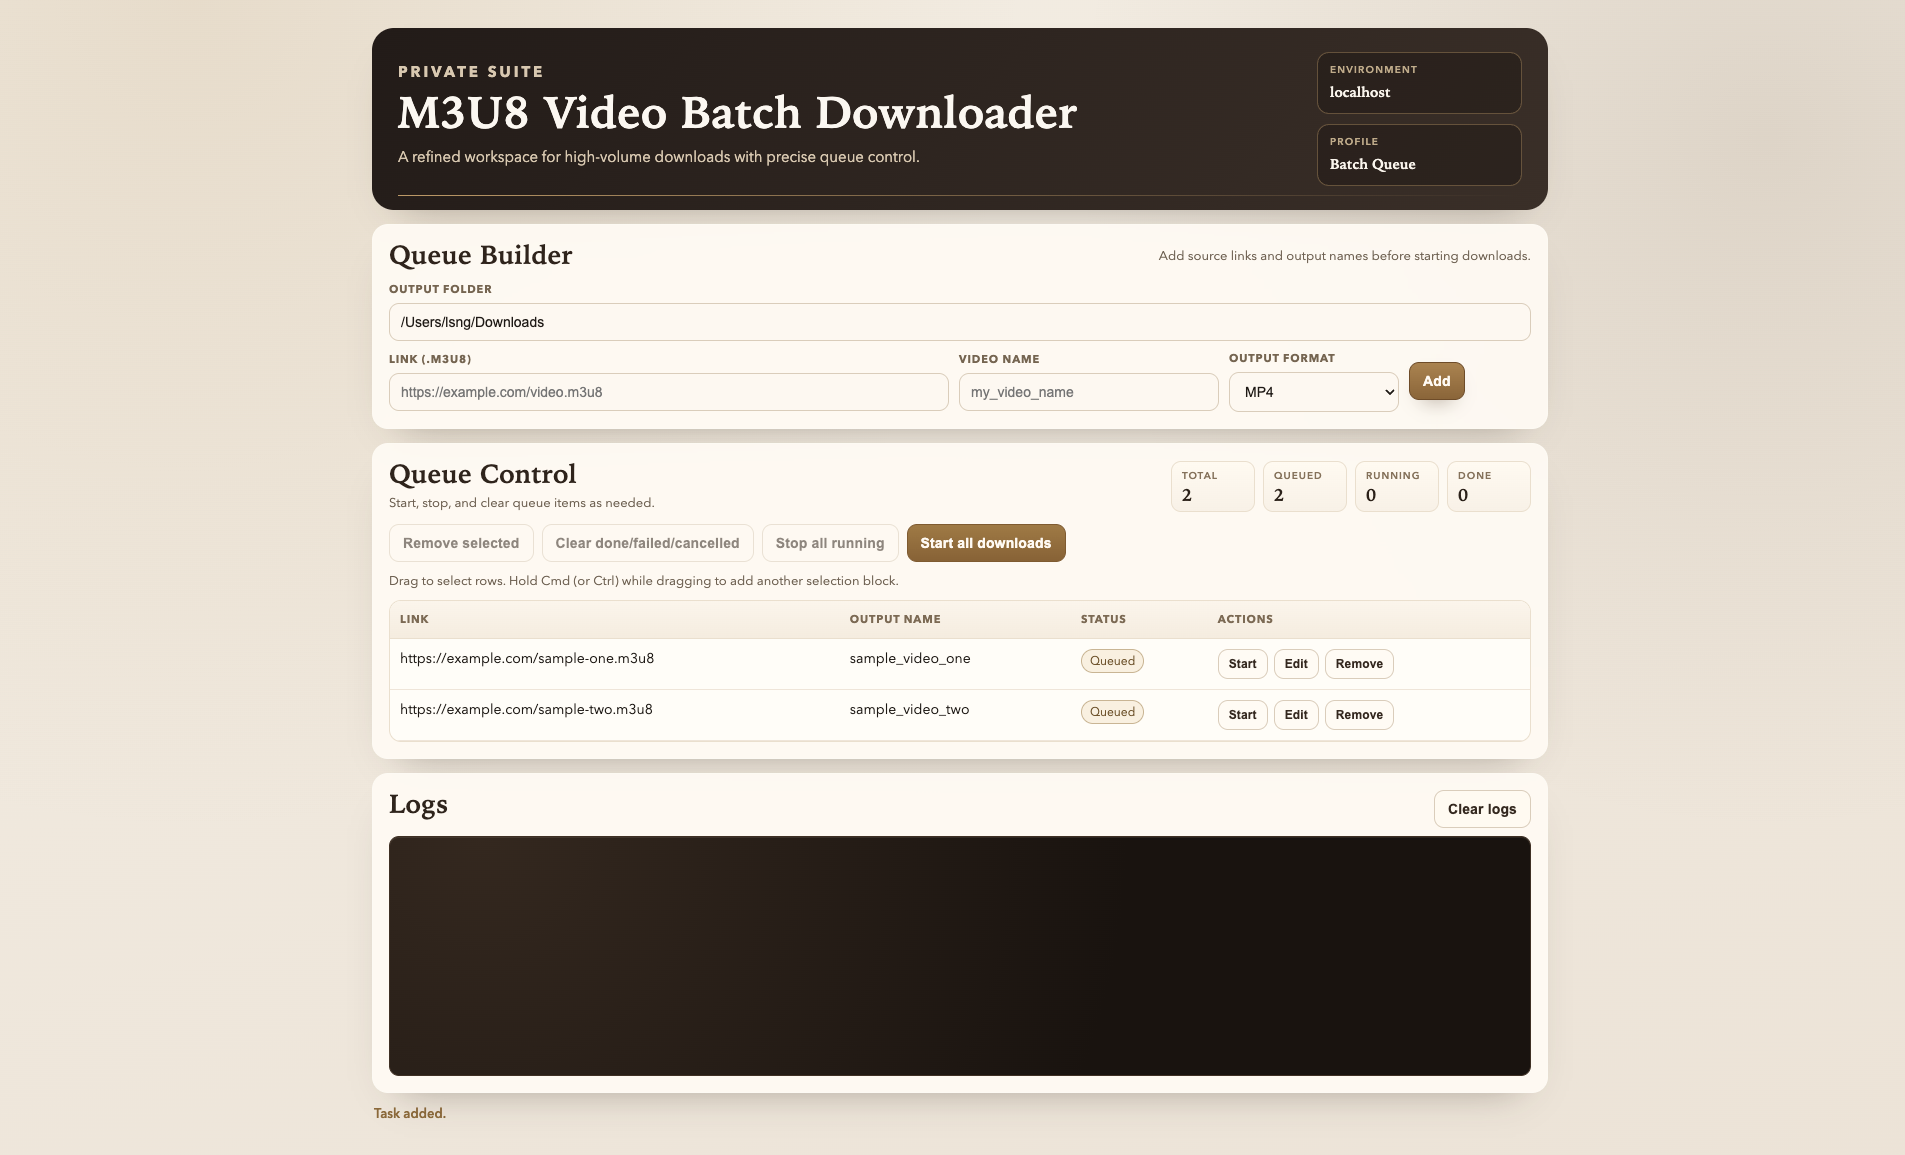
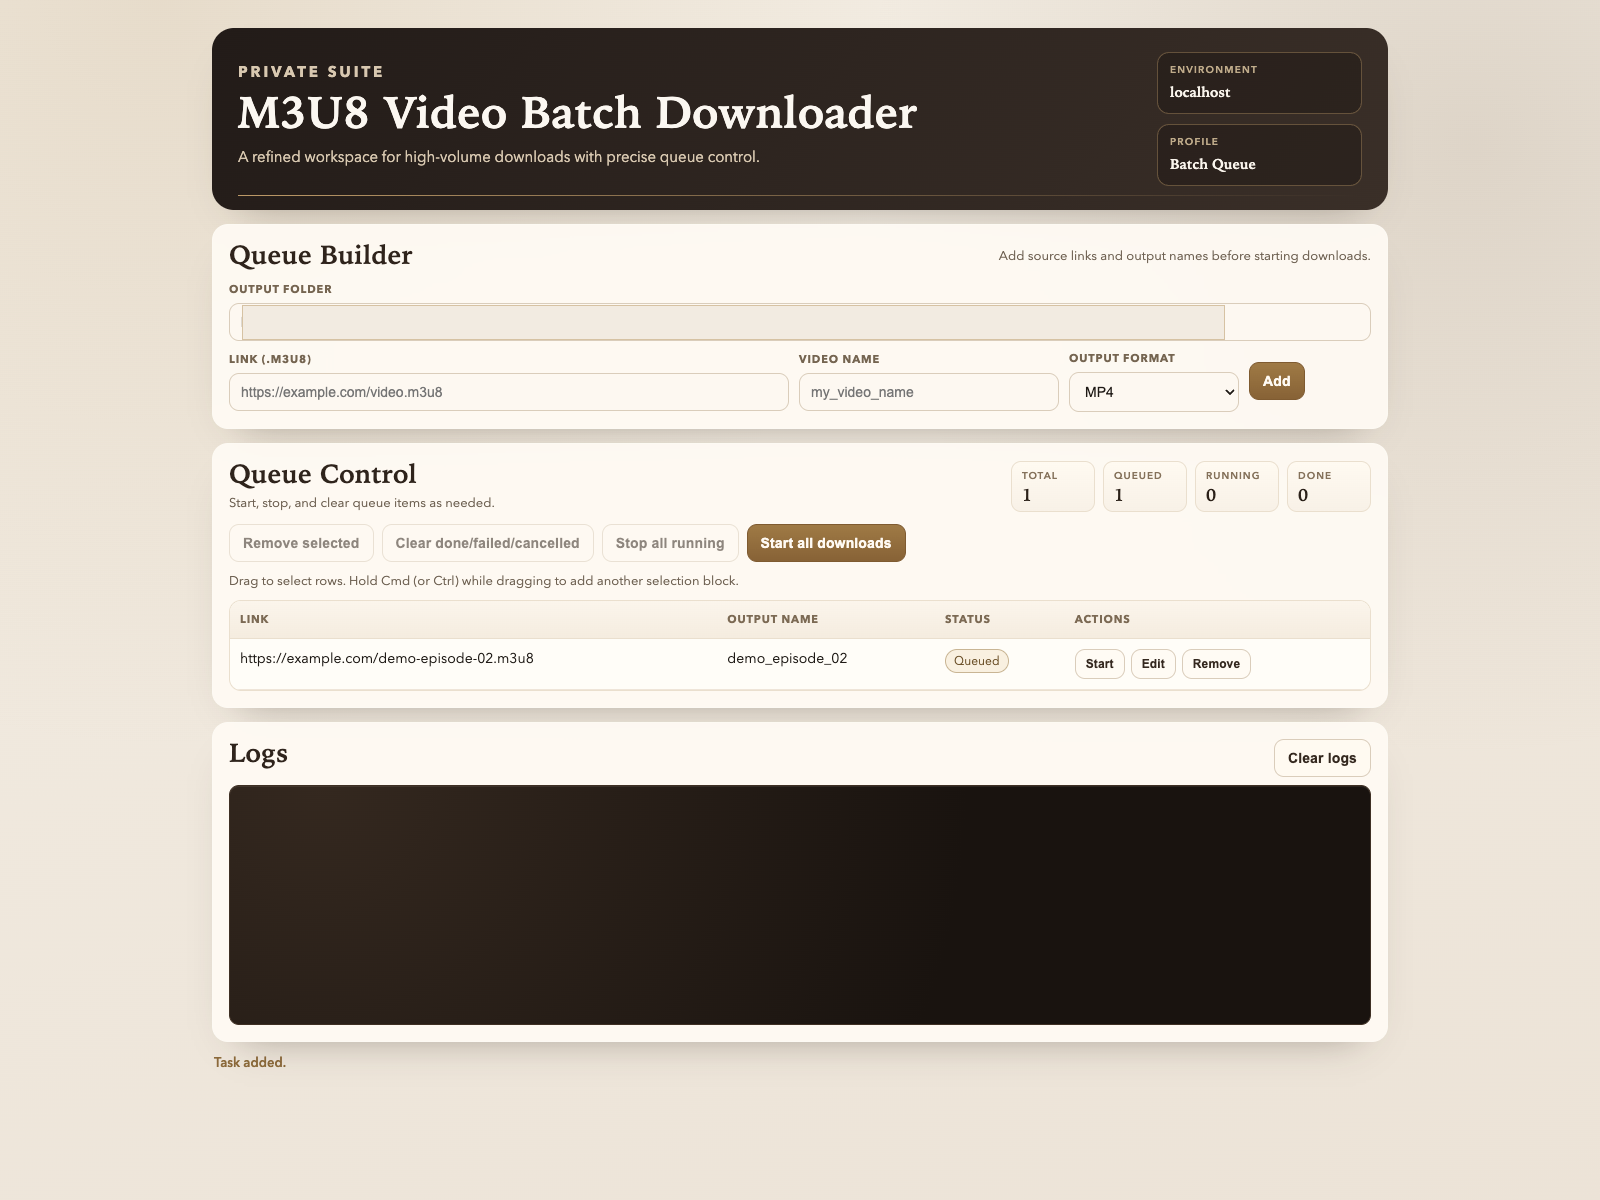
Sanitize README preview

Changed region(s): [[0.125, 0.0, 0.875, 0.9662]]

diff --git a/README.md b/README.md
@@ -6,7 +6,7 @@ Batch download `.m3u8` links with `yt-dlp` using either:
 
 ## UI Preview
 
-![Privacy-safe real web UI screenshot](output/imagegen/readme-website-sample.png)
+![Sanitized web UI preview with generic demo data](output/imagegen/readme-website-sample.png)
 
 ## Features
 
@@ -71,4 +71,5 @@ yt-dlp "LINK" -o "VIDEO_NAME.%(ext)s" --merge-output-format FORMAT --remux-video
 
 - The web server binds to `127.0.0.1` by default (local machine only).
 - Do not use `--host 0.0.0.0` unless you intentionally want network access.
+- The README preview image uses generic demo links and a sanitized output-folder field.
 - Before publishing, keep local artifacts out of git (`.playwright-cli/`, `__pycache__/`, `*.pyc`).
